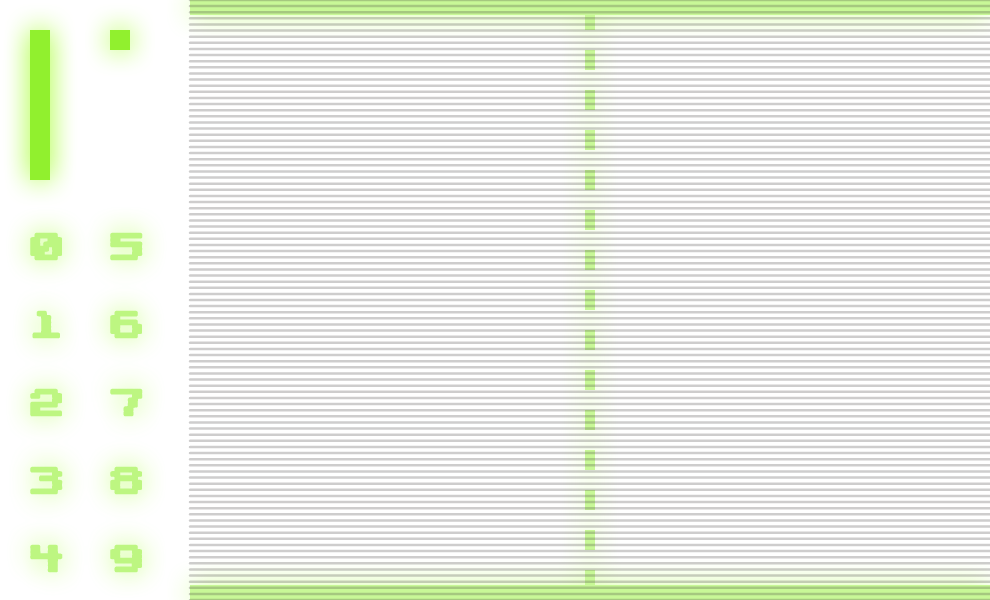
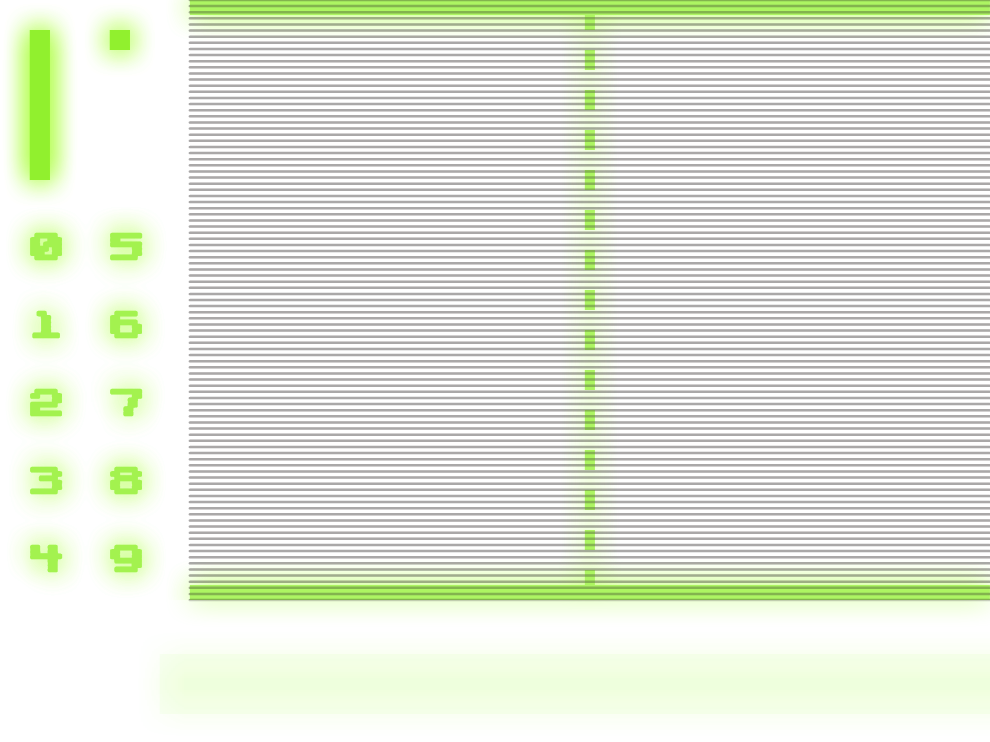
Fixed new audio playback bug due to changes in WebAudio API syntax; added scanning effect

diff --git a/Pong.js b/Pong.js
@@ -7,10 +7,15 @@
 	Pong.CPU_PADDLE_MIN_EASE = 0.005;
 	Pong.CPU_PADDLE_MAX_EASE = 0.13;
 	
+	Pong.SCAN_MIN = -125;
+	Pong.SCAN_MAX = 725;
+	Pong.SCAN_INC = 1.5;
+	
 	//Graphic asset positioning format:- x, y: top-left position to begin sampling from; w, h: width and height of rectangle to sample//
 	Pong.BALL_ASSET = { x:80, y:0, w:80, h:80 };
 	Pong.PADDLE_ASSET = { x:0, y:0, w:80, h:210 };
 	Pong.GRID_ASSET = { x:190, y:0, w:800, h:600 };
+	Pong.SCAN_ASSET = { x:190, y:630, w:800, h:112 };
 	Pong.DIGIT_ASSETS = [
 		{ x:7, y:208, w:78, h:78 },		//0
 		{ x:7, y:286, w:78, h:78 },		//1
@@ -43,6 +48,11 @@
 		this.rightScore = 0;
 		
 		this.mouseY = 300;
+		
+		this.scanY = Pong.SCAN_MIN;
+		this.scanAlpha = 0;
+		this.scanPhase = 0;
+		this.scanChange = false;
 		
 		this.rightPaddle.x = Pong.GAME_WIDTH - 20;
 	}
@@ -102,13 +112,14 @@
 		
 		if (this.useWebAudioApi) {
 			if (this.audioLoading) return;
+			this.audioLoading = true;
+			
 			buffer = this.audioContext.createBuffer(1, 1, 22050);
 			var source = this.audioContext.createBufferSource();
 			source.buffer = buffer;
 			source.connect(this.audioContext.destination);
-			source.noteOn(0);
+			source.start ? source.start(0) : source.noteOn(0);
 			
-			this.audioLoading = true;
 			this.currentLoadingClip = -1;
 			this.numAudioClips = Pong.AUDIO_ASSETS.length;
 			this.webAudio_loadNext();
@@ -166,7 +177,7 @@
 			var source = this.audioContext.createBufferSource();
 			source.buffer = audioObj.buffer;
 			source.connect(this.audioContext.destination);
-			source.noteOn(0);
+			source.start(0);
 			
 		} else {
 			this.audio[clipId].play();
@@ -242,11 +253,18 @@
 			if (setPassedEdge) this.ball.passedEdge = true;
 		}
 		
+		//Point scoring//
 		if ((this.ball.x + (this.ball.width * 0.5)) < 0) {
 			this.point_score("right");
 		} else if ((this.ball.x - (this.ball.width * 0.5)) > Pong.GAME_WIDTH) {
 			this.point_score("left");
 		}
+		
+		//Scan appearance//
+		this.scanY += Pong.SCAN_INC;
+		if (this.scanY > Pong.SCAN_MAX) this.scanY = Pong.SCAN_MIN;
+		this.scanPhase ++;
+		if (this.scanPhase >= 4) this.scanPhase = 0;
 	}
 	
 	Pong.prototype.value_easeExponential = function(prop, init, maxDelta) {
@@ -292,6 +310,17 @@
 		this.context.fillStyle = "rgb(20, 20, 20)";
 		this.context.fillRect(0, 0, Pong.GAME_WIDTH, Pong.GAME_HEIGHT);
 		
+		//Draw scan//
+		if (this.scanChange) {
+			this.scanAlpha = 0.25 + (this.scanPhase * 0.25) + (Math.random() * 0.4);
+		}
+		this.context.save();	
+		this.context.globalAlpha = this.scanAlpha;
+		this.asset_draw(Pong.SCAN_ASSET, 400, this.scanY, 2);
+		this.context.restore();
+		
+		this.scanChange = ! this.scanChange;
+		
 		//Draw ball//
 		this.asset_draw(Pong.BALL_ASSET, this.ball.x, this.ball.y);
 		
@@ -307,9 +336,10 @@
 		this.asset_draw(Pong.GRID_ASSET, Pong.GAME_WIDTH * 0.5, Pong.GAME_HEIGHT * 0.5);
 	}
 	
-	Pong.prototype.asset_draw = function(posObj, locX, locY) {
+	Pong.prototype.asset_draw = function(posObj, locX, locY, heightAdjust) {
+		if (heightAdjust == null) heightAdjust = 1;
 		//Arguments: source image, sample origin X, sample origin Y, sample width, sample height, canvas target X, canvas target Y, target width, target height
-		this.context.drawImage(this.assets, posObj.x, posObj.y, posObj.w, posObj.h, locX - (posObj.w * 0.5), locY - (posObj.h * 0.5), posObj.w, posObj.h);
+		this.context.drawImage(this.assets, posObj.x, posObj.y, posObj.w, posObj.h, locX - (posObj.w * 0.5), locY - (posObj.h * 0.5), posObj.w, posObj.h*heightAdjust);
 	}
 	
 	
